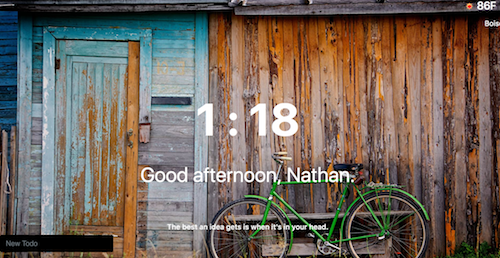
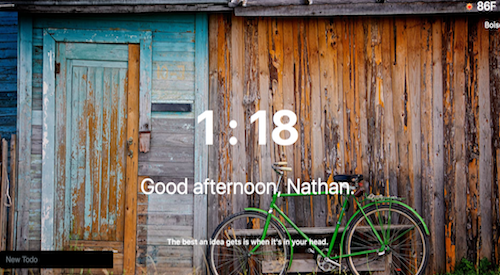
Pretty much finished

diff --git a/index.html b/index.html
@@ -34,7 +34,7 @@
             </div>
         </div>
         <div class="row">
-            <div class="card-deck">
+            <div class="card-deck col-12">
                 <div class="card">
                     <img class="card-img-top" id="pintrest" src="./images/pintrest.png" alt="Card image cap">
                     <div class="card-block">
@@ -78,7 +78,7 @@
         </div>
         <br>
         <div class="row">
-            <div class="card-deck">
+            <div class="card-deck col-12">
                 <div class="card">
                     <img class="card-img-top" id="musicfinder" src="./images/musicfinder.png" alt="Card image cap">
                     <div class="card-block">
@@ -98,7 +98,6 @@
                 </div>
                 <div class="card">
                     <img class="card-img-top" id="ultimatebravery" src="./images/ultimateBravery.png" alt="Card image cap">
-
                     <div class="card-block">
                         <h4 class="card-title">Ultimate Bravery</h4>
                         <p class="card-text">
@@ -120,7 +119,7 @@
         </div>
         <br>
         <div class="row">
-            <div class="card-deck">
+            <div class="card-deck ">
                 <div class="card">
                     <img class="card-img-top" id="momentum" src="./images/momentum.png" alt="Card image cap">
                     <div class="card-block">
@@ -138,12 +137,12 @@
                     </div>
                 </div>
                 <div class="card">
-                    <img class="card-img-top" id="slapgame" src="./images/ultimateBravery.png" alt="Card image cap">
+                    <img class="card-img-top" id="slapgame" src="./images/hangman.png" alt="Card image cap">
                     <div class="card-block">
                         <h4 class="card-title">Angular Dwarf Match</h4>
                         <p class="card-text">
-                            <a href="https://warriormuffin.github.io/dwarf-match/" class="btn btn-primary">View Demo</a>
-                            <a href="https://github.com/Warriormuffin/dwarf-match" class="btn btn-primary">View Code</a>
+                            <a href="https://warriormuffin.github.io/team-hangman/" class="btn btn-primary">View Demo</a>
+                            <a href="https://github.com/Warriormuffin/team-hangman" class="btn btn-primary">View Code</a>
                             <div class="language-type">
                                 <h6>HTML</h6>
                                 <h6>CSS</h6>

diff --git a/style.css b/style.css
@@ -2,12 +2,12 @@ body{
   text-align: center;
 }
 
-#ultimatebravery, #chorewars, #musicfinder, #momentum, #slapgame, #pintrest{
+/*#ultimatebravery, #chorewars, #musicfinder, #momentum, #slapgame, #pintrest{
   width: 460px;
-}
+}*/
 
 body{
-  background: url(https://static.pexels.com/photos/82277/nature-river-wood-tree-82277.jpeg) no-repeat center center fixed;
+  background: url(https://static.pexels.com/photos/461947/pexels-photo-461947.jpeg) no-repeat center center fixed;
   -webkit-background-size: cover;
   -moz-background-size: cover;
   -o-background-size: cover;
@@ -27,6 +27,6 @@ h6{
   color: white;
   float: left;
   border: 1px solid grey;
-  margin-left: 5px;
+  margin-left: 10px;
 }
 
